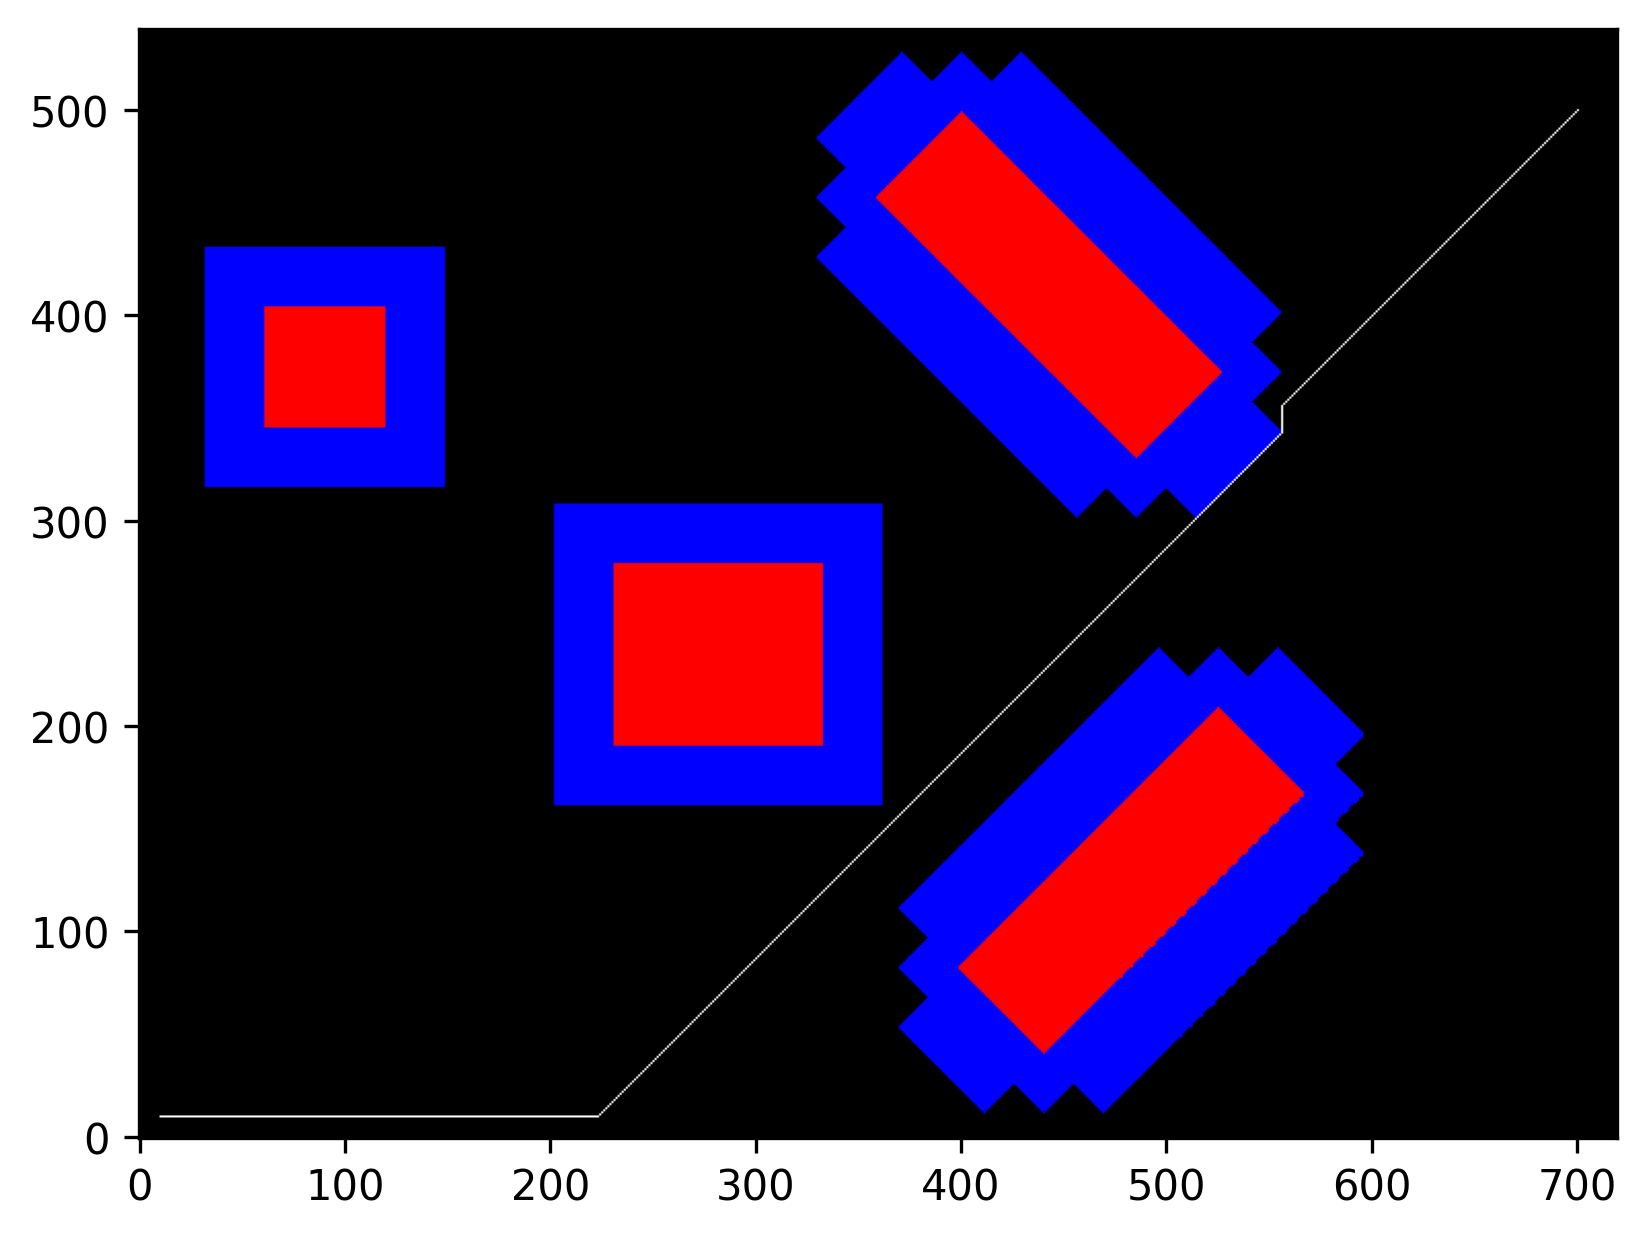
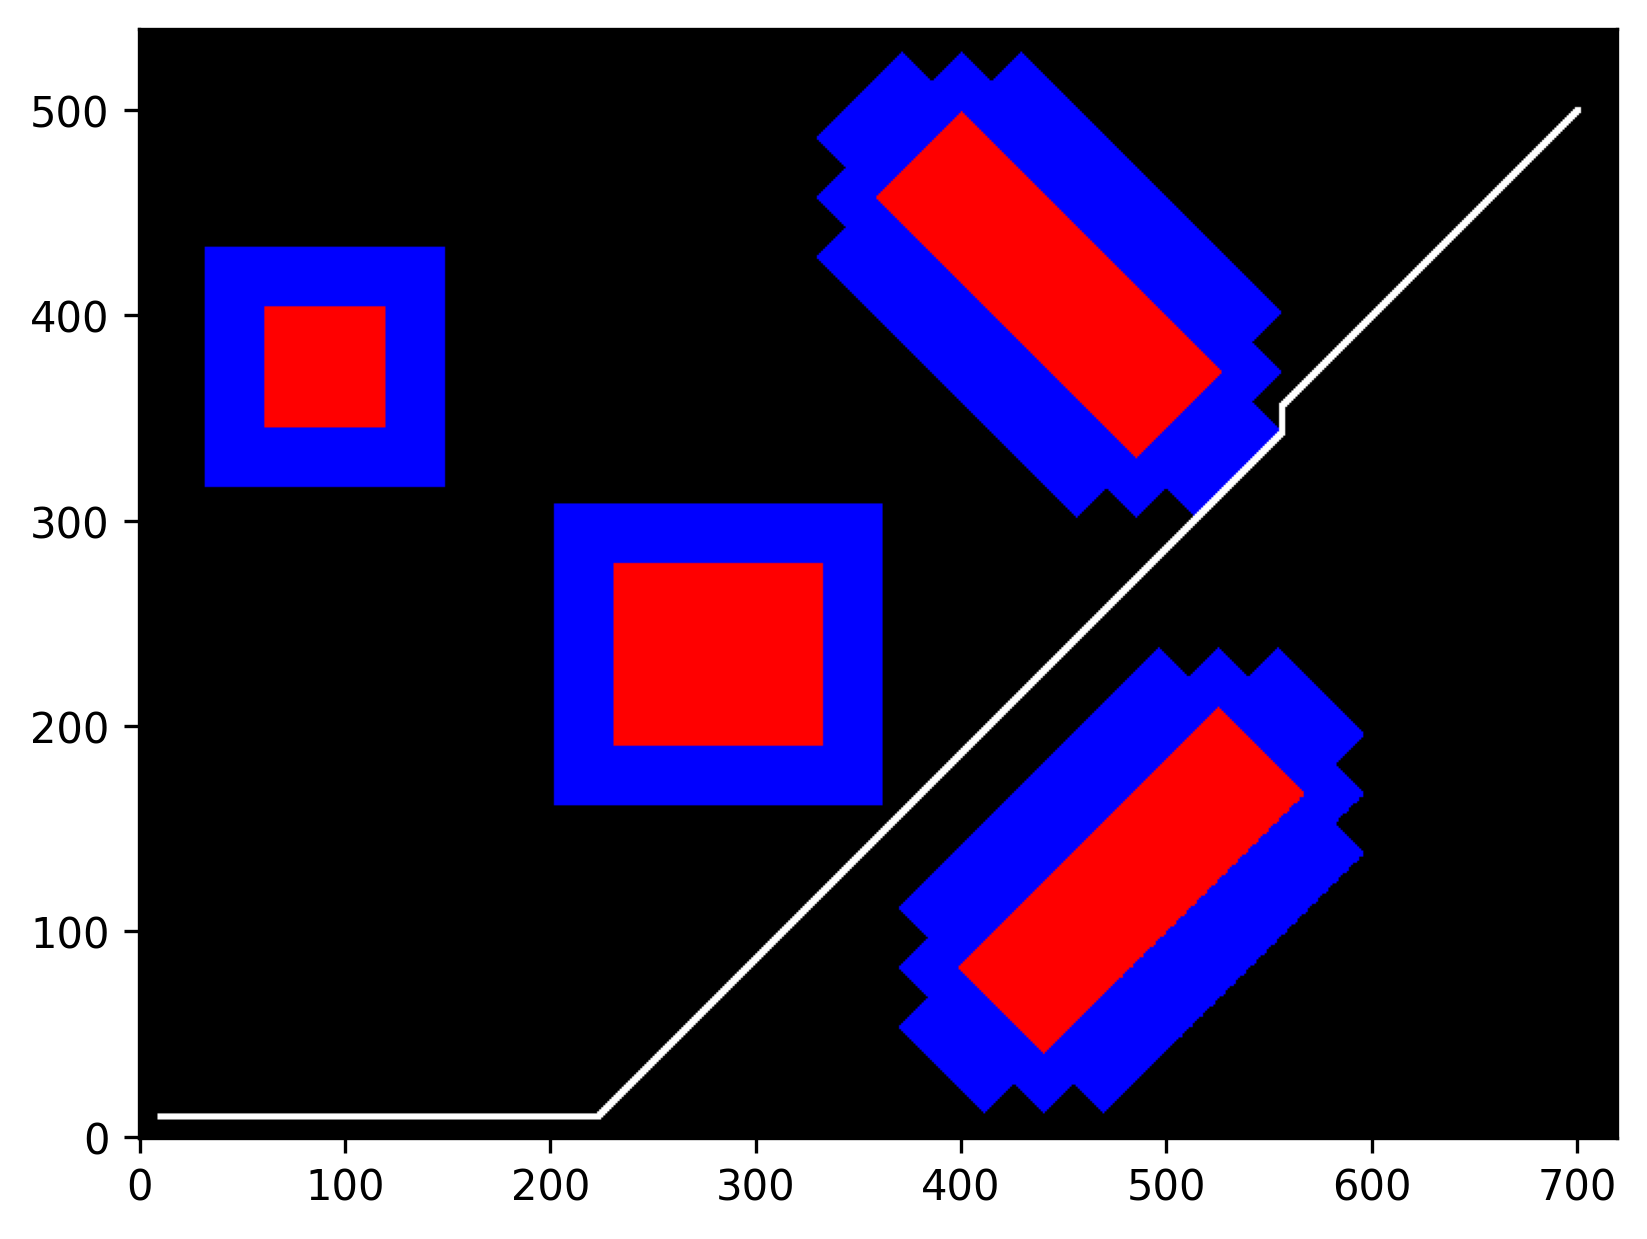
drawing update
made path drawn thicker

diff --git a/Lab5/construct_map.py b/Lab5/construct_map.py
@@ -175,8 +175,10 @@ def check_obstacles(obstacles, x, y):
 
 def drawPath(path,img):
     for x,y in path:
-        img[x,y] = [255,255,255]
-
+        for dr, dc in [(1,0),(0,1),(-1,0),(0,-1),(1,1),(-1,1),(-1,-1),(1,-1)]:
+            newX, newY = x + dr, y + dc
+            if 0 <= newX < len(img) and 0 <= newY < len(img[0]):
+                img[newX][newY] = [255,255,255]
     return img
 
 def construct_map(isEasy, resolution):
